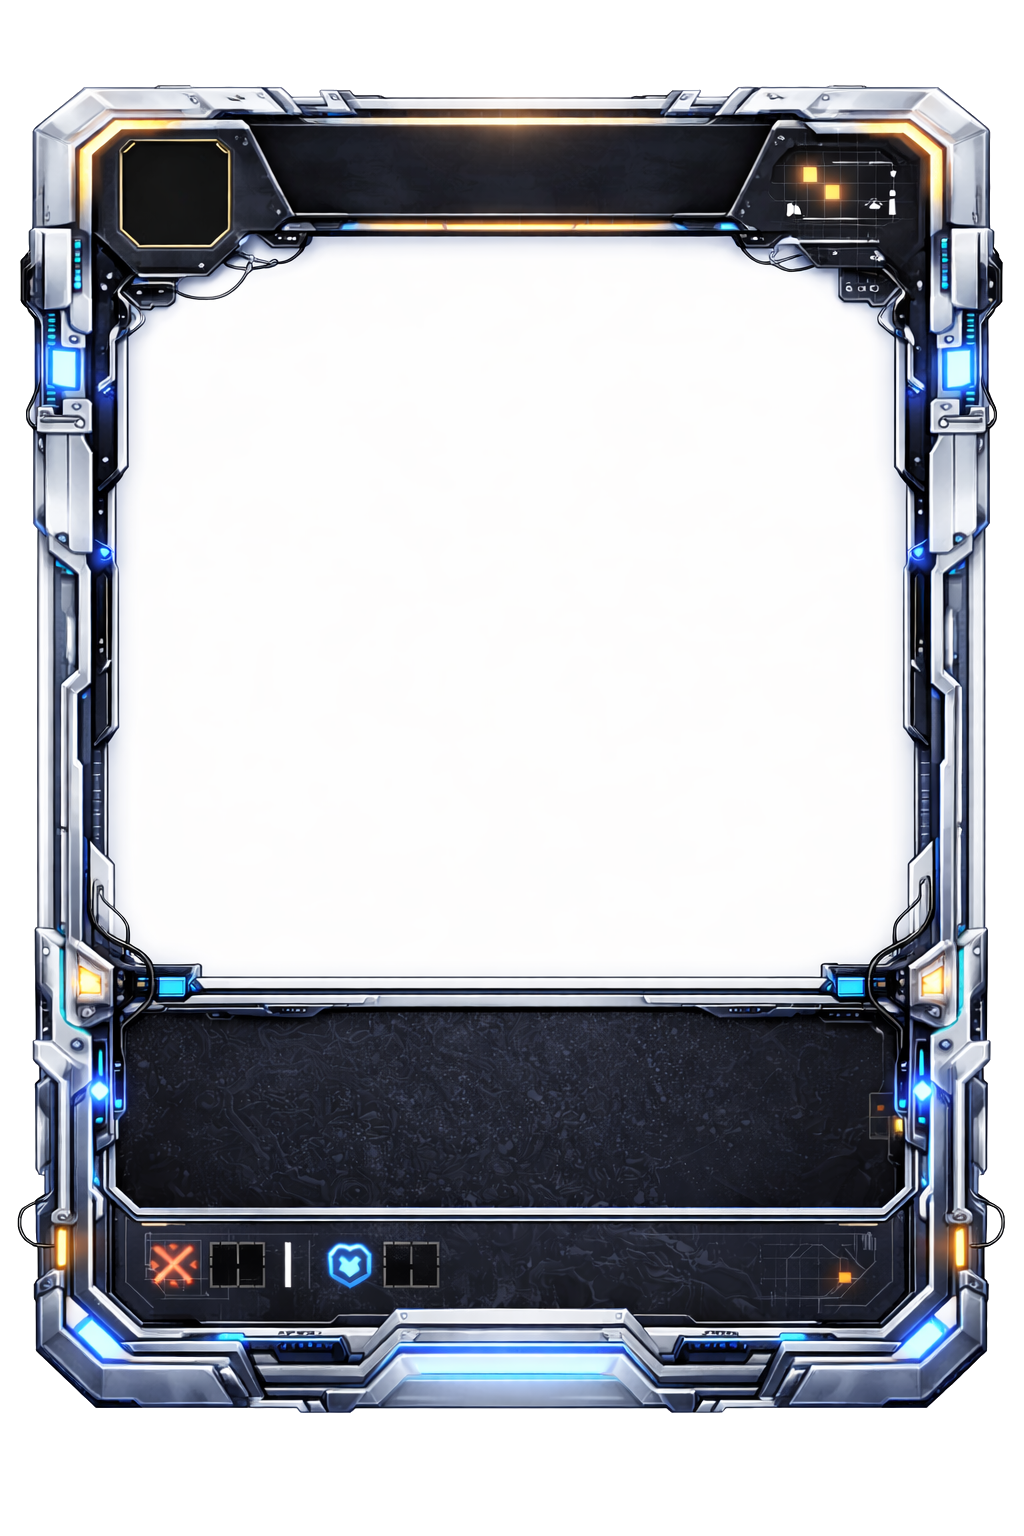
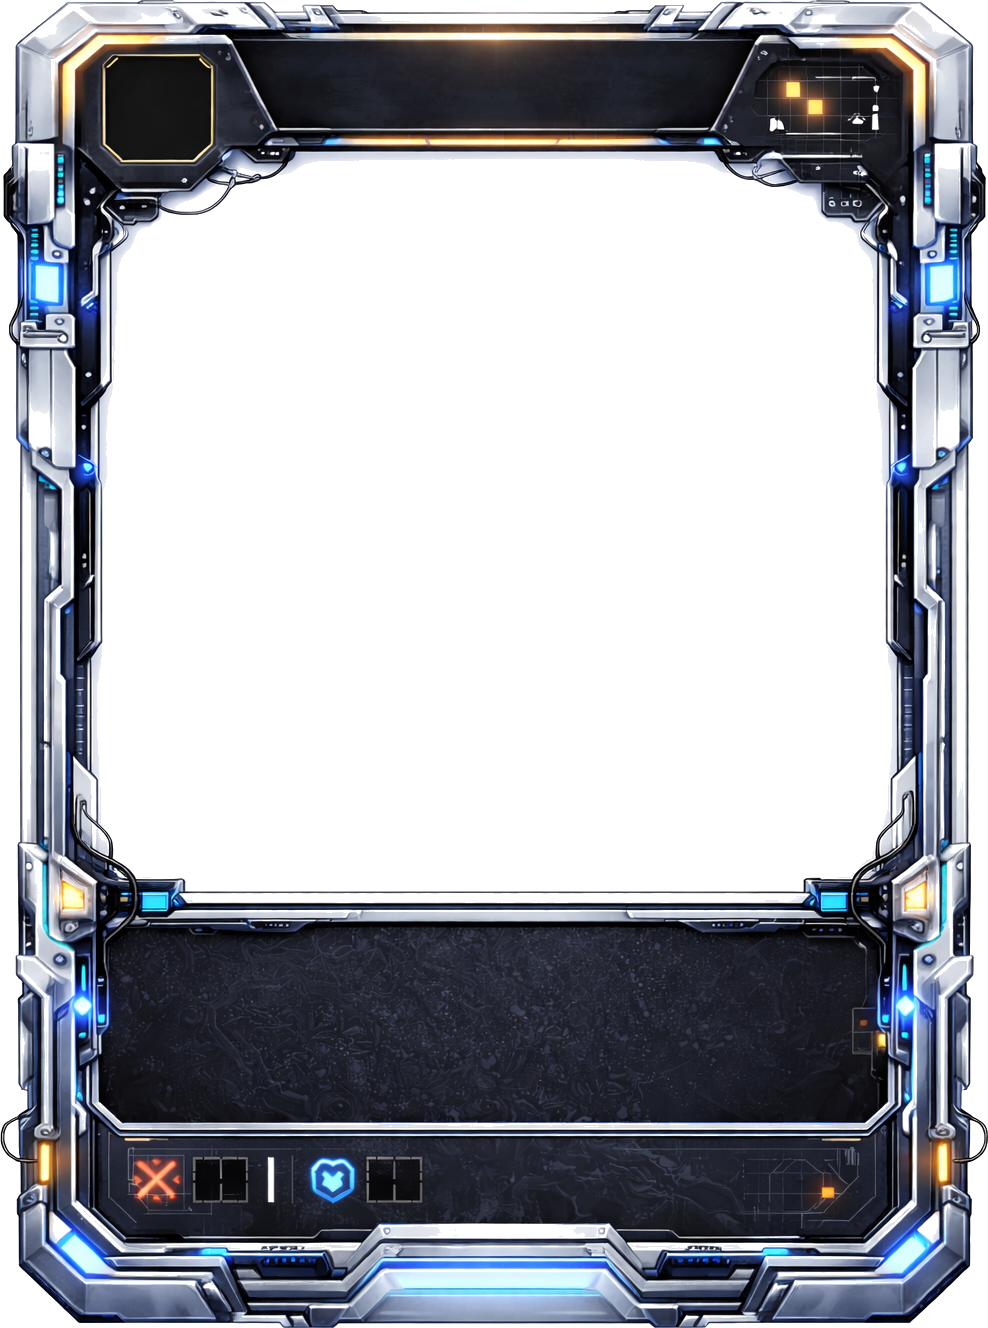
Crop frame PNG to content bbox, remove white artwork window; fix zone proportions
Frame PNG: cropped from 1024x1536 to 988x1328 (remove transparent padding),
white pixels removed to expose transparent artwork window (12%-69% of height).
CardComponent: use pre-processed PNG directly, update zone proportions to match
real frame measurements.

diff --git a/src/components/battle/CardComponent.tsx b/src/components/battle/CardComponent.tsx
@@ -1,6 +1,6 @@
 'use client';
 
-import { useState, useEffect, useRef } from 'react';
+import { useState, useRef } from 'react';
 import { createPortal } from 'react-dom';
 import { motion, AnimatePresence } from 'framer-motion';
 import type { Card, CardInPlay } from '@/types/card';
@@ -9,30 +9,9 @@ import { MOD_RARITY_COLOR } from '@/utils/cardMods';
 import { MOD_MAP } from '@/data/mods';
 import CardArt from './CardArt';
 
-// ── Frame PNG: load once, cache as data URL (user already removed white border) ─
-let frameSrc: string = '/Cards/Frame Agents.png';
-let frameReady = false;
-let frameCallbacks: (() => void)[] = [];
-
-function loadProcessedFrame(onReady: () => void) {
-  if (frameReady) { onReady(); return; }
-  frameCallbacks.push(onReady);
-  if (frameCallbacks.length > 1) return;
-  const img = new window.Image();
-  img.src = '/Cards/Frame Agents.png';
-  img.onload = () => {
-    // PNG already has transparent outer border — just cache as-is
-    frameSrc = img.src;
-    frameReady = true;
-    frameCallbacks.forEach(cb => cb());
-    frameCallbacks = [];
-  };
-  img.onerror = () => {
-    frameReady = true;
-    frameCallbacks.forEach(cb => cb());
-    frameCallbacks = [];
-  };
-}
+// ── Frame PNG: pre-processed (white pixels removed, cropped to bounding box) ──
+// No runtime processing needed — just use the PNG directly
+const frameSrc = '/Cards/Frame Agents.png';
 
 // ── Constants ─────────────────────────────────────────────────────────────────
 const TIER_LABEL: Record<1 | 2 | 3, string> = { 1: 'T1', 2: 'T2', 3: 'T3' };
@@ -59,24 +38,24 @@ const SIZE_DIMS: Record<CardSize, { w: number; h: number; fontSize: number }> = 
   mini:    { w: 48,  h: 64,  fontSize: 6   },
 };
 
-// ── Frame zone proportions (measured from reference frame PNG 1024×1536) ──────
-// Name bar:    top 4.5%–11%   of card height
-// Artwork:     top 11%–67%    of card height
-// Text area:   top 67%–89%    of card height (dark zone)
-// Stats bar:   top 89%–97%    of card height (bottom strip)
-// Cost badge:  top 4%–11%, left 3%–16%
+// ── Frame zone proportions (measured from processed frame PNG 988×1328) ───────
+// Name bar:    top 2%–12%    of card height  (dark top section)
+// Artwork:     top 12%–69%   of card height  (transparent window)
+// Text area:   top 69%–85%   of card height  (dark text zone)
+// Stats bar:   top 94%–100%  of card height  (bottom light strip)
+// Cost badge:  top 2%–12%, left 3%–18%
 
 const F = {
-  nameTop:    0.045,
-  nameBot:    0.110,
-  artTop:     0.110,
-  artBot:     0.670,
-  textTop:    0.670,
-  textBot:    0.890,
-  statsTop:   0.890,
-  statsBot:   0.970,
-  costLeft:   0.030,
-  costRight:  0.160,
+  nameTop:    0.02,
+  nameBot:    0.12,
+  artTop:     0.12,
+  artBot:     0.69,
+  textTop:    0.69,
+  textBot:    0.85,
+  statsTop:   0.94,
+  statsBot:   1.00,
+  costLeft:   0.03,
+  costRight:  0.18,
 };
 
 // ── Shared card interior layout (used by both card and hover preview) ─────────
@@ -123,20 +102,12 @@ function CardLayout({
 
   return (
     <>
-      {/* ── Artwork (clipped to art zone) */}
-      <div style={{
-        position: 'absolute',
-        top: artTop, left: 0, width: w, height: artH,
-        overflow: 'hidden',
-        zIndex: 1,
-      }}>
-        {/* Offset canvas so art zone aligns: shift up by artTop so art starts at card top */}
-        <div style={{ position: 'absolute', top: -artTop, left: 0 }}>
-          <CardArt card={card} width={w} height={h} />
-        </div>
+      {/* ── Artwork behind frame — fills entire card, visible through transparent window */}
+      <div style={{ position: 'absolute', inset: 0, zIndex: 1 }}>
+        <CardArt card={card} width={w} height={h} />
       </div>
 
-      {/* ── Frame PNG on top of artwork */}
+      {/* ── Frame PNG on top of artwork (has transparent window at 12%–69%) */}
       {/* eslint-disable-next-line @next/next/no-img-element */}
       <img
         src={frameSrc}
@@ -349,13 +320,8 @@ export default function CardComponent({
   onClick,
 }: CardComponentProps) {
   const [hovered, setHovered] = useState(false);
-  const [, forceUpdate] = useState(0);
   const hoverTimer = useRef<ReturnType<typeof setTimeout> | null>(null);
   const ec = ENERGY_COLORS[card.energy];
-
-  useEffect(() => {
-    if (!frameReady) loadProcessedFrame(() => forceUpdate(n => n + 1));
-  }, []);
 
   const { w, h, fontSize } = SIZE_DIMS[size];
   const cardMods = card.mods;
